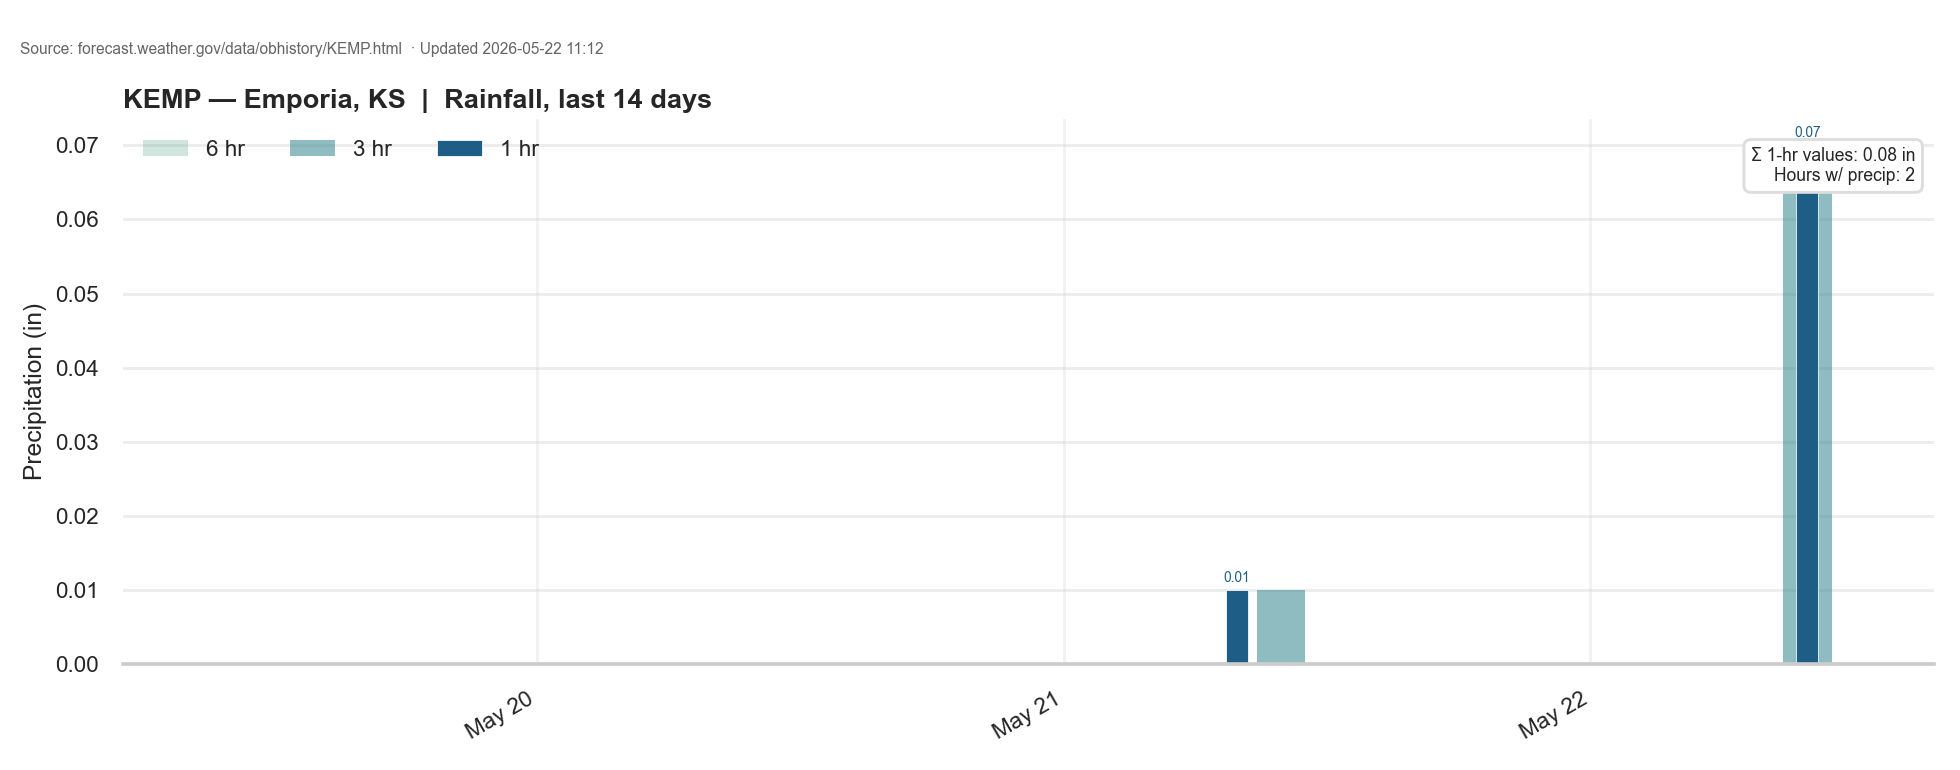
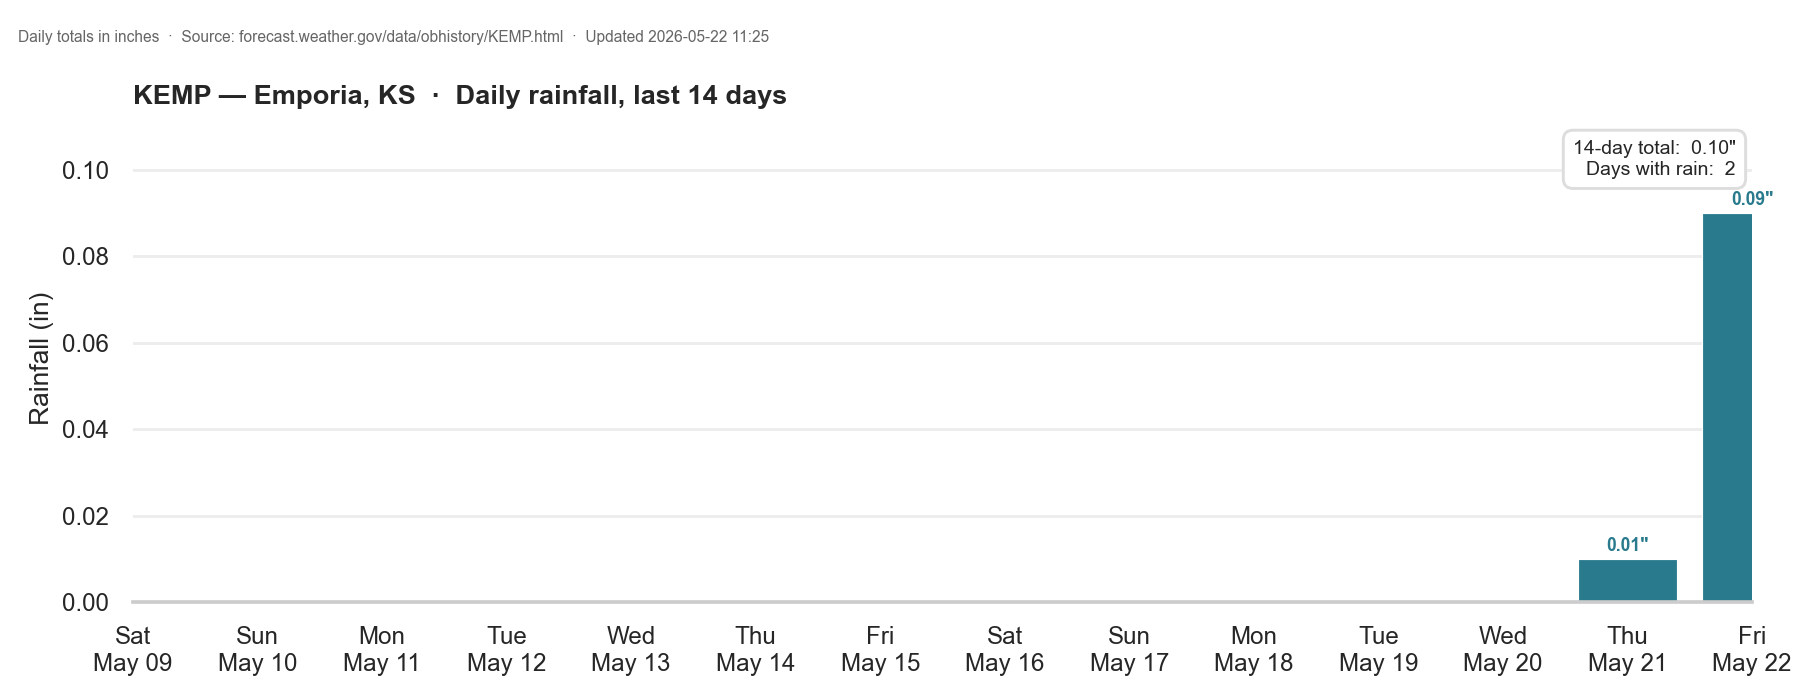
chart: switch to daily rainfall totals
The 1hr/3hr/6hr columns are nested rolling windows (the 3hr includes the
1hr; the 6hr includes both), which made the stacked legend confusing.
Replaced with a single bar per day showing the day's total rainfall in
inches, summed from each :53 hourly METAR's 1-hour precip value.

diff --git a/run_update.py b/run_update.py
@@ -142,73 +142,83 @@ def parse_ts(row: dict) -> datetime | None:
 
 
 def render_chart(all_rows: list[dict]) -> int:
-    cutoff = datetime.now() - timedelta(days=CHART_DAYS)
-    pts = []
+    """Render daily rainfall totals for the last CHART_DAYS days.
+
+    Sums the 1-hour precipitation values from each standard hourly observation
+    (METAR reports at minute :53) into daily buckets in local CDT. Each :53 row
+    reports rain that fell in the prior 60 minutes, so non-:53 SPECIs are skipped
+    to avoid double-counting overlapping windows.
+    """
+    today_local = date.today()
+    cutoff_date = today_local - timedelta(days=CHART_DAYS - 1)
+    totals: dict[date, float] = {
+        cutoff_date + timedelta(days=i): 0.0 for i in range(CHART_DAYS)
+    }
+
+    rows_used = 0
     for r in all_rows:
         ts = parse_ts(r)
-        if ts is None or ts < cutoff:
+        if ts is None:
             continue
-        pts.append((ts,
-                    to_float(r.get("Precip 1hr (in)", "")),
-                    to_float(r.get("Precip 3hr (in)", "")),
-                    to_float(r.get("Precip 6hr (in)", ""))))
-    pts.sort(key=lambda x: x[0])
-    if not pts:
-        log("no data points in the 14-day window; skipping chart")
-        return 0
-    times, p1, p3, p6 = zip(*pts)
+        d = ts.date()
+        if d < cutoff_date or d > today_local:
+            continue
+        if ts.minute < 50:
+            continue  # skip SPECIs to avoid overlapping the :53 hourly METAR
+        totals[d] = totals.get(d, 0.0) + to_float(r.get("Precip 1hr (in)", ""))
+        rows_used += 1
 
-    sns.set_theme(style="whitegrid", context="talk", font_scale=0.7)
-    palette = sns.color_palette("crest", 3)
-    fig, ax = plt.subplots(figsize=(14, 5.5))
+    days = sorted(totals.keys())
+    values = [totals[d] for d in days]
 
-    span_hours = (max(times) - min(times)).total_seconds() / 3600 or 1
-    width = max(0.005, min(0.05, 1 / max(24, span_hours / 4)))
+    sns.set_theme(style="whitegrid", context="talk", font_scale=0.75)
+    palette = sns.color_palette("crest", as_cmap=False, n_colors=6)
+    bar_color = palette[3]
+    dry_color = "#e6ecf0"
 
-    # Plot 6hr/3hr in back as wider, lighter bars; 1hr on top sharp & opaque.
-    ax.bar(times, p6, width=width * 4, color=palette[0], alpha=0.30,
-           label="6 hr", align="center", edgecolor="none")
-    ax.bar(times, p3, width=width * 2.2, color=palette[1], alpha=0.55,
-           label="3 hr", align="center", edgecolor="none")
-    ax.bar(times, p1, width=width, color=palette[2], alpha=1.0,
-           label="1 hr", align="center", edgecolor="white", linewidth=0.4)
+    fig, ax = plt.subplots(figsize=(13, 5))
+    colors = [bar_color if v > 0 else dry_color for v in values]
+    ax.bar(days, values, width=0.8, color=colors,
+           edgecolor="white", linewidth=0.6)
 
-    ax.set_title(f"KEMP — Emporia, KS  |  Rainfall, last {CHART_DAYS} days",
+    for d, v in zip(days, values):
+        if v > 0:
+            ax.annotate(f"{v:.2f}\"", xy=(d, v),
+                        xytext=(0, 4), textcoords="offset points",
+                        ha="center", fontsize=9, color=bar_color,
+                        weight="bold")
+
+    ax.set_title(f"KEMP — Emporia, KS  ·  Daily rainfall, last {CHART_DAYS} days",
                  fontsize=14, weight="bold", loc="left")
-    fig.text(0.01, 0.93,
-             f"Source: forecast.weather.gov/data/obhistory/{STATION}.html  "
-             f"· Updated {datetime.now().strftime('%Y-%m-%d %H:%M')}",
+    fig.text(0.01, 0.94,
+             f"Daily totals in inches  ·  Source: forecast.weather.gov/data/obhistory/{STATION}.html"
+             f"  ·  Updated {datetime.now().strftime('%Y-%m-%d %H:%M')}",
              fontsize=8, color="#666")
     ax.set_xlabel("")
-    ax.set_ylabel("Precipitation (in)")
+    ax.set_ylabel("Rainfall (in)")
     ax.xaxis.set_major_locator(mdates.DayLocator())
-    ax.xaxis.set_major_formatter(mdates.DateFormatter("%b %d"))
-    ax.xaxis.set_minor_locator(mdates.HourLocator(byhour=[0, 6, 12, 18]))
-    ax.grid(True, axis="y", linestyle="-", alpha=0.35)
-    ax.grid(True, axis="x", which="major", linestyle="-", alpha=0.25)
+    ax.xaxis.set_major_formatter(mdates.DateFormatter("%a\n%b %d"))
+    ax.set_xlim(days[0] - timedelta(days=0.5), days[-1] + timedelta(days=0.5))
+    ymax = max(values) if values else 0.0
+    ax.set_ylim(0, max(0.1, ymax * 1.25))
     sns.despine(ax=ax, left=True)
     ax.tick_params(axis="y", left=False)
-    ax.legend(loc="upper left", frameon=False, ncol=3)
+    ax.grid(True, axis="y", linestyle="-", alpha=0.35)
+    ax.grid(False, axis="x")
 
-    for ts, v in zip(times, p1):
-        if v > 0:
-            ax.annotate(f"{v:.2f}", xy=(ts, v),
-                        xytext=(0, 4), textcoords="offset points",
-                        ha="center", fontsize=7, color=palette[2])
-
-    total_1hr = sum(p1)
-    nonzero = sum(1 for v in p1 if v > 0)
+    total = sum(values)
+    wet_days = sum(1 for v in values if v > 0)
     ax.text(0.99, 0.95,
-            f"Σ 1-hr values: {total_1hr:.2f} in\n"
-            f"Hours w/ precip: {nonzero}",
-            transform=ax.transAxes, ha="right", va="top", fontsize=9,
-            bbox=dict(facecolor="white", edgecolor="#ddd", boxstyle="round,pad=0.4"))
+            f"{CHART_DAYS}-day total:  {total:.2f}\"\n"
+            f"Days with rain:  {wet_days}",
+            transform=ax.transAxes, ha="right", va="top", fontsize=10,
+            bbox=dict(facecolor="white", edgecolor="#ddd",
+                      boxstyle="round,pad=0.5"))
 
-    fig.autofmt_xdate()
     fig.tight_layout(rect=(0, 0, 1, 0.92))
     fig.savefig(CHART_PNG, dpi=140, facecolor="white")
     plt.close(fig)
-    return len(pts)
+    return rows_used
 
 
 def main() -> int: